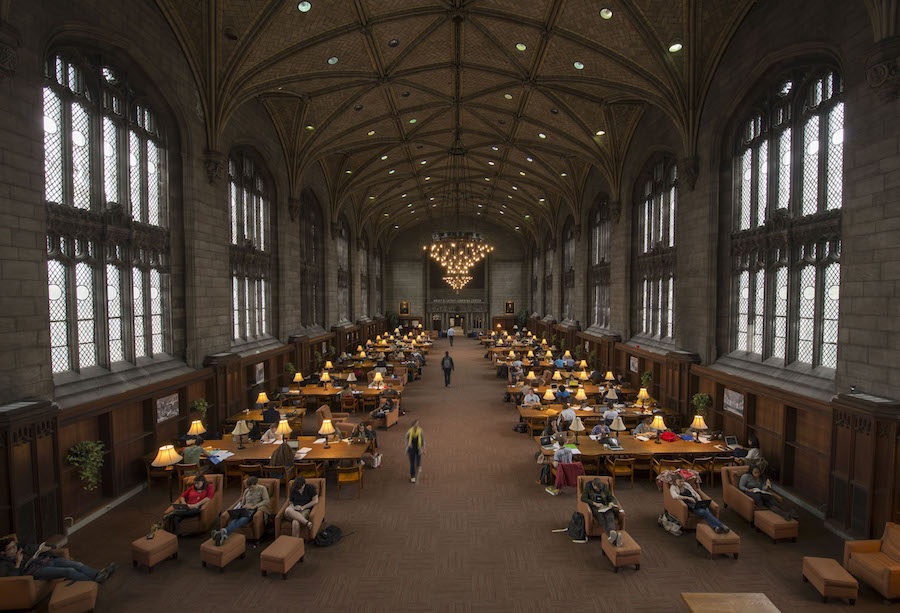
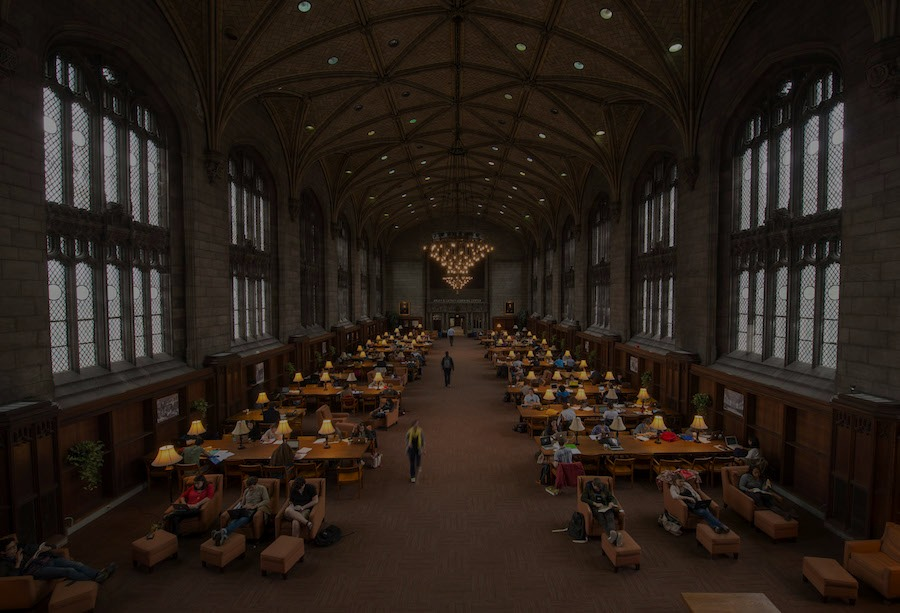
fixed some color

diff --git a/public/stylesheets/webpage.css b/public/stylesheets/webpage.css
@@ -81,6 +81,11 @@ dropdown-item, collapse, navbar-collapse
   line-height: 1.6;
 }
 
+.secondTitleFont-green {
+  color:green; font-family: 'Montserrat', sans-serif; font-size: 20px;
+  line-height: 1.6;
+}
+
 .secondTitleFont-blue {
   color:royalblue; font-family: 'Montserrat', sans-serif; font-size: 20px;
   line-height: 1.6;
@@ -206,7 +211,7 @@ dropdown-item, collapse, navbar-collapse
 }
 
 .net {
-  background-image: url("images/darkmolecule.png");
+  background-image: url("/images/gate.jpg");
   max-height: 180px;
   background-attachment: fixed;
   background-position: center;
@@ -214,6 +219,15 @@ dropdown-item, collapse, navbar-collapse
   background-size: cover;
 }
 .net2 {
+  background-image: url("/images/gate.jpg");
+  max-height: 180px;
+  background-attachment: fixed;
+  background-position: center;
+  background-repeat: no-repeat;
+  background-size: cover;
+}
+
+.net3 {
   background-color: maroon;
   max-height: 180px;
   background-attachment: fixed;
@@ -481,13 +495,14 @@ div.college-admissions-g1 {
   width: 100%;
    /* opacity: 0; */
   /* transition: .5s ease; */
-  background-color: indianred;
+  background-image: url("images/uchic.jpg");
 width: 400px;
     height: 272px;
 }
 
 .container:hover .overlay{
-  opacity: 0.80;
+  opacity: 0.98;
+  background-color: slategrey;
 }
 
 
@@ -1197,7 +1212,7 @@ h2.a {
   }
 
   .net {
-      background-image: url("images/darkmolecule.png");
+      background-image: url("images/gates.jpg");
   max-height: 180px;
   background-attachment: fixed;
   background-position: center;
